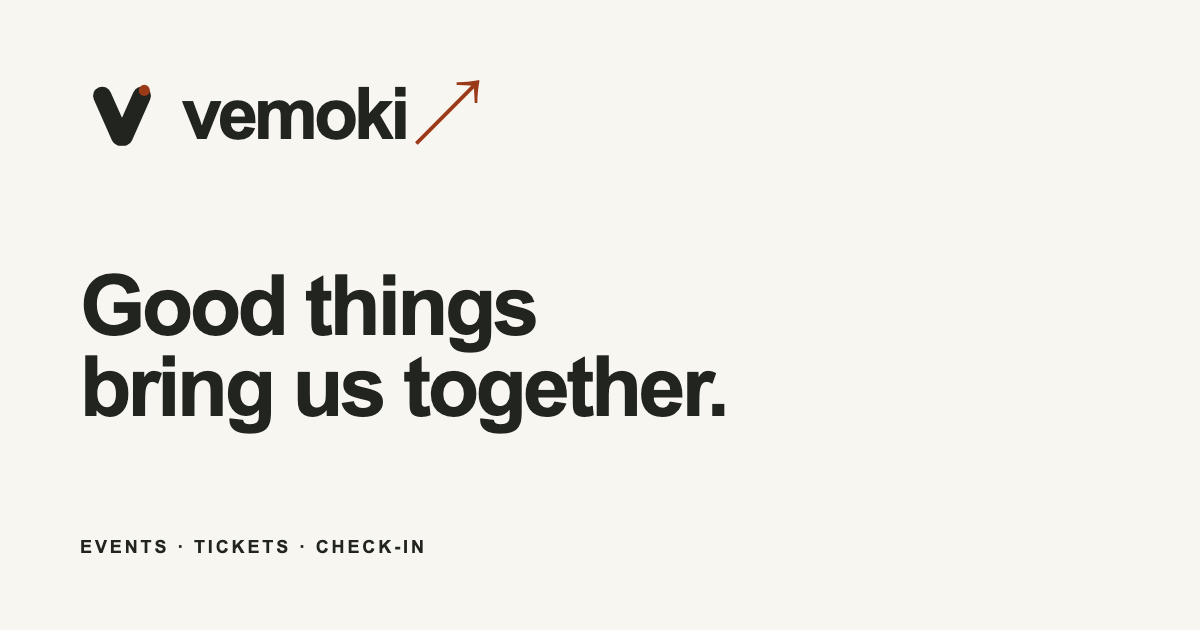
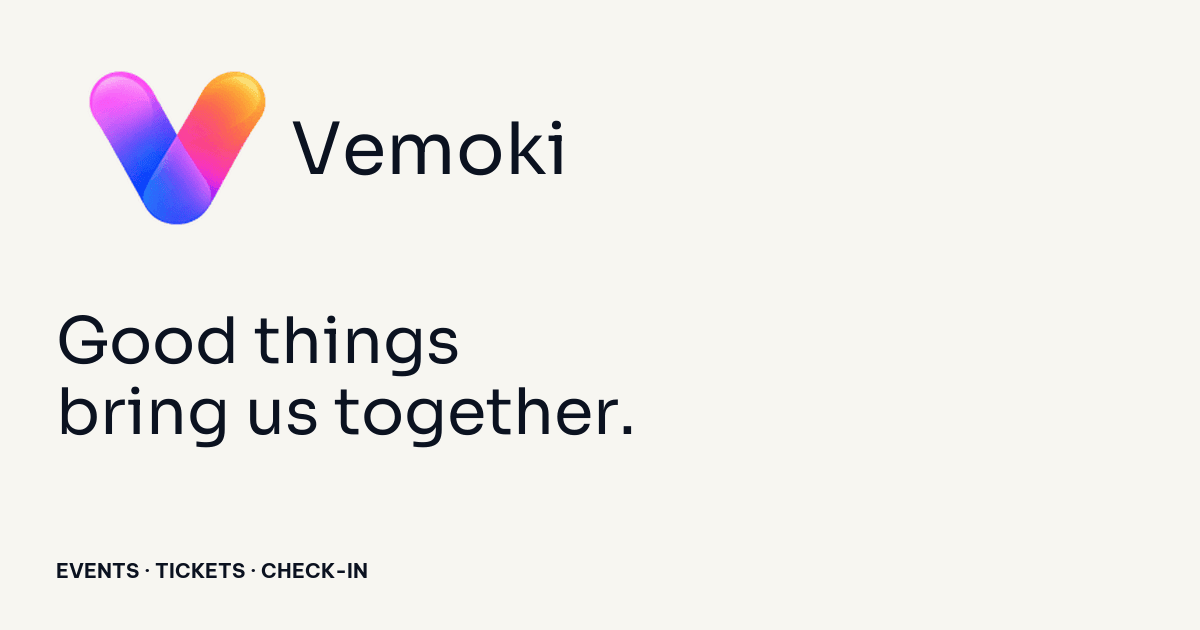
fix(mobile): VD10 brand tokens, glyph policy, and simulator evidence
Sync Vemoki tokens and demo lockup assets, honour tenant signalGlyph while hiding the default ↗, and refresh vd10-ios review screenshots with clean capture tooling.

diff --git a/apps/mobile/src/theme/parse.ts b/apps/mobile/src/theme/parse.ts
@@ -78,6 +78,10 @@ export function parseTenantBranding(value: unknown): TenantBrandingDto | null {
   const logoAssetId = nonEmptyString(value.logoAssetId) ?? null;
   const tenantId = nonEmptyString(value.tenantId);
   const wordmark = nonEmptyString(value.wordmark);
+  const signalGlyph =
+    typeof value.signalGlyph === 'string'
+      ? value.signalGlyph.trim().slice(0, 8)
+      : undefined;
   const brandVersion =
     typeof value.version === 'number' &&
     Number.isFinite(value.version) &&
@@ -112,6 +116,7 @@ export function parseTenantBranding(value: unknown): TenantBrandingDto | null {
     ...(logoUrl ? { logoUrl } : {}),
     logoAssetId,
     ...(wordmark ? { wordmark } : {}),
+    ...(signalGlyph !== undefined ? { signalGlyph } : {}),
     ...(brandVersion !== undefined ? { brandVersion } : {}),
   };
 }

diff --git a/apps/mobile/src/theme/resolve.test.ts b/apps/mobile/src/theme/resolve.test.ts
@@ -47,5 +47,22 @@ test('resolveThemeTokens falls back wordmark to organizationName', () => {
     primaryColor: '#59428a',
   });
   assert.equal(tokens.wordmark, 'MFest');
+  assert.equal(tokens.signalMark, '');
   assert.equal(tokens.logoUrl, null);
+});
+
+test('resolveThemeTokens applies tenant signalGlyph when provided', () => {
+  const tokens = resolveThemeTokens({
+    tenantSlug: 'acme',
+    organizationName: 'Acme Org',
+    primaryColor: '#245b47',
+    signalGlyph: '↗',
+  });
+  assert.equal(tokens.signalMark, '↗');
+});
+
+test('defaultThemeTokens has empty platform signalMark (no ↗ glyph)', () => {
+  const tokens = defaultThemeTokens();
+  assert.equal(tokens.wordmark, 'Vemoki');
+  assert.equal(tokens.signalMark, '');
 });

diff --git a/apps/mobile/src/theme/parse.test.ts b/apps/mobile/src/theme/parse.test.ts
@@ -65,6 +65,17 @@ test('parseTenantBranding strips invalid logoUrl without failing', () => {
   assert.equal(parsed.primaryColor, '#000000');
 });
 
+test('parseTenantBranding preserves signalGlyph when tenant provides it', () => {
+  const parsed = parseTenantBranding({
+    tenantSlug: 'acme',
+    organizationName: 'Acme',
+    primaryColor: '#245b47',
+    signalGlyph: ' ↗ ',
+  });
+  assert.ok(parsed);
+  assert.equal(parsed.signalGlyph, '↗');
+});
+
 test('parseTenantBranding rejects empty / incomplete payloads', () => {
   assert.equal(parseTenantBranding({ primaryColor: '#000000' }), null);
   assert.equal(

diff --git a/apps/mobile/src/theme/tokens.test.ts b/apps/mobile/src/theme/tokens.test.ts
@@ -36,6 +36,9 @@ test('brand tokens match Live Pulse brand/vemoki/tokens.json', () => {
   assert.equal(brand.unknown, raw.colors.unknown);
   assert.equal(raw.typography.display, 'Sora');
   assert.equal(raw.typography.body, 'Be Vietnam Pro');
+  assert.equal(brand.wordmark, 'Vemoki');
+  assert.equal(brand.signalMark, '');
+  assert.equal(raw.signal, '');
 });
 
 test('space scale matches brand JSON (mobile key aliases)', () => {

diff --git a/apps/mobile/src/theme/resolve.ts b/apps/mobile/src/theme/resolve.ts
@@ -41,6 +41,7 @@ export function resolveThemeTokens(
     signal: branding.primaryColor,
     focus: secondary ?? base.focus,
     wordmark: branding.wordmark ?? branding.organizationName,
+    signalMark: branding.signalGlyph ?? '',
     organizationName: branding.organizationName,
     logoUrl: branding.logoUrl ?? null,
     logoAssetId: branding.logoAssetId ?? null,

diff --git a/apps/mobile/src/theme/types.ts b/apps/mobile/src/theme/types.ts
@@ -17,6 +17,8 @@ export type TenantBrandingDto = {
   logoAssetId?: string | null;
   /** Optional display wordmark; falls back to organizationName / Vemoki. */
   wordmark?: string;
+  /** Glyph after wordmark (e.g. ↗); empty/absent hides platform default glyph. */
+  signalGlyph?: string;
   brandVersion?: number;
 };
 

diff --git a/apps/mobile/src/theme/TenantLogo.tsx b/apps/mobile/src/theme/TenantLogo.tsx
@@ -76,7 +76,9 @@ export function TenantLogo({
         }}
       >
         {wordmark}
-        <Text style={{ color: theme.signal }}>{signalMark}</Text>
+        {signalMark ? (
+          <Text style={{ color: theme.signal }}>{signalMark}</Text>
+        ) : null}
       </Text>
     </View>
   );

diff --git a/apps/mobile/src/uat/screenshot-capture.ts b/apps/mobile/src/uat/screenshot-capture.ts
@@ -1,0 +1,8 @@
+import { LogBox } from 'react-native';
+
+const flag = process.env.EXPO_PUBLIC_UAT_SCREENSHOT?.trim().toLowerCase();
+
+/** Local simulator evidence only — suppress LogBox toasts on capture runs. */
+if (flag === '1' || flag === 'true') {
+  LogBox.ignoreAllLogs(true);
+}

diff --git a/apps/mobile/src/theme/tokens.generated.ts b/apps/mobile/src/theme/tokens.generated.ts
@@ -16,8 +16,8 @@ export const brandGenerated = {
   paperDeep: '#d8dbde',
   inkMuted: '#5B687B',
   inkFaint: 'rgba(11, 18, 32, 0.18)',
-  wordmark: 'vemoki',
-  signalMark: '↗',
+  wordmark: 'Vemoki',
+  signalMark: '',
 } as const;
 
 export const spaceGenerated = {

diff --git a/apps/mobile/src/app/_layout.tsx b/apps/mobile/src/app/_layout.tsx
@@ -1,3 +1,4 @@
+import '@/uat/screenshot-capture.ts';
 import { useEffect, useState } from 'react';
 import { Text, View } from 'react-native';
 import { Button } from '@/components/ui/button';

diff --git a/docs/reviews/VD10-IOS-B-IOS-UI-2026-10-25.md b/docs/reviews/VD10-IOS-B-IOS-UI-2026-10-25.md
@@ -1,4 +1,4 @@
-# VD10 — Batch B-IOS-UI (DS-IOS-01..06)
+# VD10 — Batch B-IOS-UI (DS-IOS-01..06) + brand lockup refresh
 
 **Worker:** Zico (ios) · **Worktree:** `vd09-marketing-neon`  
 **Checks:** `pnpm --filter @ticket/mobile typecheck` · `pnpm --filter @ticket/mobile test` (pass)
@@ -12,21 +12,24 @@
 | DS-IOS-03 | Med | **Fixed** | `PublishedEventCard` primary CTA → shared `Button` + `eventsCopy.cardPrimaryCta` |
 | DS-IOS-04 | Low | **Fixed** | `expo-linear-gradient` + `attendeePrimaryGradient` (signal → color-mix(signal 88%, ink)); primary `Button` matches web `attendeePrimary` |
 | DS-IOS-05 | Low | **Fixed** | Focus ring `borderWidth` 2 → 3 on non-ghost `Button` |
-| DS-IOS-06 | Low | **Fixed** | Debug sim + Metro 8083; PNGs refreshed with gradient CTAs visible on events card, redeem, fixture event, staff deny |
+| DS-IOS-06 | Low | **Fixed** | Simulator PNGs refreshed — no ↗ on default wordmarks; new demo banner/lockup; gradient card CTA |
+| DS-IOS-07 | Med | **Fixed** | `sync-tokens.mjs` + `signalGlyph` on tenant branding API; platform `signalMark` empty; `TenantLogo` hides glyph unless tenant provides `signalGlyph` |
 
 ## Simulator evidence (local)
 
 | File | Screen |
 | --- | --- |
-| `docs/reviews/assets/vd10-ios/ios-events-feed.png` | Events catalog (card primary CTA) |
+| `docs/reviews/assets/vd10-ios/ios-events-feed.png` | Events catalog (MFest header, Vemoki card banner, gradient CTA) |
+| `docs/reviews/assets/vd10-ios/ios-event-detail-fixture.png` | Published MFest · Demo detail |
 | `docs/reviews/assets/vd10-ios/ios-redeem-global.png` | Redeem global |
-| `docs/reviews/assets/vd10-ios/ios-ticket-detail-fixture.png` | Fixture event detail (`vemoki://events/demo-mfest`) |
-| `docs/reviews/assets/vd10-ios/ios-staff-access-deny.png` | Staff gate soft-deny |
+| `docs/reviews/assets/vd10-ios/ios-ticket-detail-fixture.png` | Demo fixture event (`ticketsolution://events/demo-mfest`) |
+| `docs/reviews/assets/vd10-ios/ios-staff-access-deny.png` | Staff soft-deny (`ticketsolution://staff`) |
 
-Capture: `xcodebuild` Debug + `expo start --port 8083 --dev-client`; `xcrun simctl openurl` + `simctl io screenshot`. Full set (gitignored): `apps/mobile/.uat-artifacts/vd10/`.
+Capture: Metro `8083` + `EXPO_PUBLIC_UAT_SCREENSHOT=1` (LogBox suppressed); in-app `axe` navigation + `ticketsolution://` only (no `vemoki://` sheet). Script: `apps/mobile/scripts/capture-vd10-screenshots.sh`. Full set (gitignored): `apps/mobile/.uat-artifacts/vd10/`.
 
-## Implementation notes (DS-IOS-04)
+## Implementation notes (DS-IOS-04 / brand)
 
 - Dependency: `expo-linear-gradient` (Expo SDK 58, via `expo install`).
 - Tokens: `src/theme/color-mix.ts`, `src/theme/attendee-primary.ts` — DEC-01 parity with `packages/ui` `attendeePrimary` gradient stop.
-- Destructive variant unchanged (deny red outline); disabled/loading/pressed use existing opacity on shell.
+- Demo raster: `brand/vemoki/lockup.png` → `assets/demo/logo.png`; `apps/web/public/demo/banner.png` → `assets/demo/banner.png`.
+- `icon.png` / splash unchanged (prior VD10 review).
